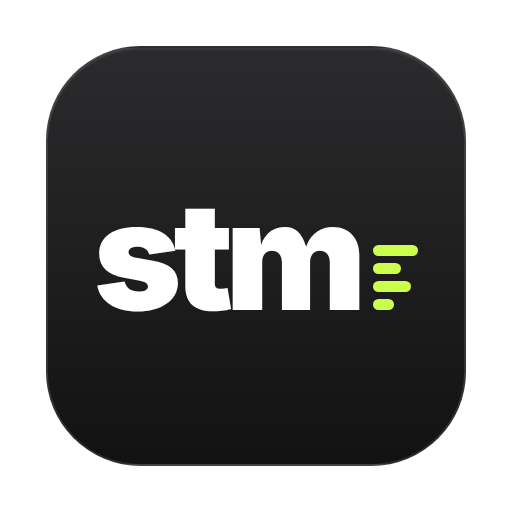
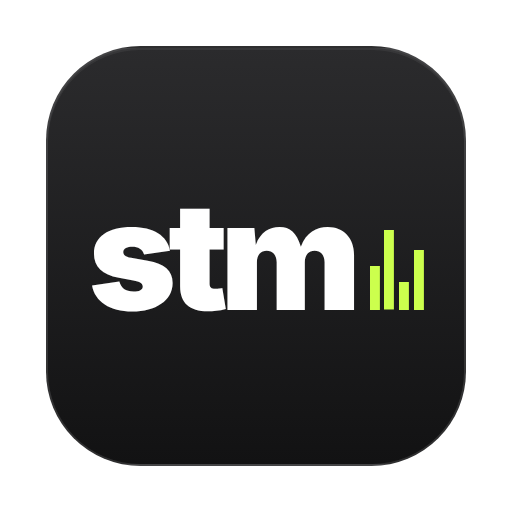
Stm site: match the app's mark (four level bars, bottom-aligned)
Claude-Session: https://claude.ai/code/session_0153qDJZLn1x3vLwES6bXL5A

diff --git a/apps/_shared/style.css b/apps/_shared/style.css
@@ -54,11 +54,12 @@ img { display: block; max-width: 100%; height: auto; }
 .wordmark svg { width: 0.36em; height: 0.56em; fill: var(--accent); flex: none; }
 /* Each app's glyph after its three letters, as in the PXL app tiles. */
 .wordmark .g { display: inline-block; flex: none; }
-/* Empty blocks, no flex: an inline-block with no text sits its bottom on the baseline. */
-.g-stems { width: 0.3em; height: 0.56em; padding-top: 0.125em; margin-left: 0.04em; box-sizing: border-box; }
-.g-stems b { display: block; height: 0.075em; margin-top: 0.045em; border-radius: 0.04em; background: var(--accent); }
-.g-stems b:first-child { margin-top: 0; }
-.g-stems b:nth-child(1) { width: 100%; } .g-stems b:nth-child(2) { width: 62%; } .g-stems b:nth-child(3) { width: 84%; } .g-stems b:nth-child(4) { width: 46%; }
+/* Stm: four level bars side by side, bottom-aligned, heights 55/100/35/75% of the x-height
+   (matches the app's .mark .bars). Drawn as backgrounds so the empty inline-block sits on the baseline. */
+.g-stems { width: 0.36em; height: 0.53em; margin-left: 0.05em; background-repeat: no-repeat;
+  background-image: linear-gradient(var(--accent), var(--accent)), linear-gradient(var(--accent), var(--accent)), linear-gradient(var(--accent), var(--accent)), linear-gradient(var(--accent), var(--accent));
+  background-size: 0.066em 55%, 0.066em 100%, 0.066em 35%, 0.066em 75%;
+  background-position: 0 100%, 33.3% 100%, 66.6% 100%, 100% 100%; }
 .g-cube { width: 0.22em; height: 0.22em; border-radius: 0.03em; background: linear-gradient(135deg, #ffb35c, var(--accent) 55%, #4dd8ff); }
 .g-hop { width: 0.4em; height: 0.56em; position: relative; }
 .g-hop::before { content: ""; position: absolute; left: 0; right: 0; top: 0.08em; height: 0.36em; border: 0.055em solid var(--accent); border-bottom: 0; border-radius: 0.4em 0.4em 0 0; border-style: dashed; opacity: .55; }

diff --git a/apps/hop/assets/style.css b/apps/hop/assets/style.css
@@ -54,11 +54,12 @@ img { display: block; max-width: 100%; height: auto; }
 .wordmark svg { width: 0.36em; height: 0.56em; fill: var(--accent); flex: none; }
 /* Each app's glyph after its three letters, as in the PXL app tiles. */
 .wordmark .g { display: inline-block; flex: none; }
-/* Empty blocks, no flex: an inline-block with no text sits its bottom on the baseline. */
-.g-stems { width: 0.3em; height: 0.56em; padding-top: 0.125em; margin-left: 0.04em; box-sizing: border-box; }
-.g-stems b { display: block; height: 0.075em; margin-top: 0.045em; border-radius: 0.04em; background: var(--accent); }
-.g-stems b:first-child { margin-top: 0; }
-.g-stems b:nth-child(1) { width: 100%; } .g-stems b:nth-child(2) { width: 62%; } .g-stems b:nth-child(3) { width: 84%; } .g-stems b:nth-child(4) { width: 46%; }
+/* Stm: four level bars side by side, bottom-aligned, heights 55/100/35/75% of the x-height
+   (matches the app's .mark .bars). Drawn as backgrounds so the empty inline-block sits on the baseline. */
+.g-stems { width: 0.36em; height: 0.53em; margin-left: 0.05em; background-repeat: no-repeat;
+  background-image: linear-gradient(var(--accent), var(--accent)), linear-gradient(var(--accent), var(--accent)), linear-gradient(var(--accent), var(--accent)), linear-gradient(var(--accent), var(--accent));
+  background-size: 0.066em 55%, 0.066em 100%, 0.066em 35%, 0.066em 75%;
+  background-position: 0 100%, 33.3% 100%, 66.6% 100%, 100% 100%; }
 .g-cube { width: 0.22em; height: 0.22em; border-radius: 0.03em; background: linear-gradient(135deg, #ffb35c, var(--accent) 55%, #4dd8ff); }
 .g-hop { width: 0.4em; height: 0.56em; position: relative; }
 .g-hop::before { content: ""; position: absolute; left: 0; right: 0; top: 0.08em; height: 0.36em; border: 0.055em solid var(--accent); border-bottom: 0; border-radius: 0.4em 0.4em 0 0; border-style: dashed; opacity: .55; }

diff --git a/apps/lut/assets/style.css b/apps/lut/assets/style.css
@@ -54,11 +54,12 @@ img { display: block; max-width: 100%; height: auto; }
 .wordmark svg { width: 0.36em; height: 0.56em; fill: var(--accent); flex: none; }
 /* Each app's glyph after its three letters, as in the PXL app tiles. */
 .wordmark .g { display: inline-block; flex: none; }
-/* Empty blocks, no flex: an inline-block with no text sits its bottom on the baseline. */
-.g-stems { width: 0.3em; height: 0.56em; padding-top: 0.125em; margin-left: 0.04em; box-sizing: border-box; }
-.g-stems b { display: block; height: 0.075em; margin-top: 0.045em; border-radius: 0.04em; background: var(--accent); }
-.g-stems b:first-child { margin-top: 0; }
-.g-stems b:nth-child(1) { width: 100%; } .g-stems b:nth-child(2) { width: 62%; } .g-stems b:nth-child(3) { width: 84%; } .g-stems b:nth-child(4) { width: 46%; }
+/* Stm: four level bars side by side, bottom-aligned, heights 55/100/35/75% of the x-height
+   (matches the app's .mark .bars). Drawn as backgrounds so the empty inline-block sits on the baseline. */
+.g-stems { width: 0.36em; height: 0.53em; margin-left: 0.05em; background-repeat: no-repeat;
+  background-image: linear-gradient(var(--accent), var(--accent)), linear-gradient(var(--accent), var(--accent)), linear-gradient(var(--accent), var(--accent)), linear-gradient(var(--accent), var(--accent));
+  background-size: 0.066em 55%, 0.066em 100%, 0.066em 35%, 0.066em 75%;
+  background-position: 0 100%, 33.3% 100%, 66.6% 100%, 100% 100%; }
 .g-cube { width: 0.22em; height: 0.22em; border-radius: 0.03em; background: linear-gradient(135deg, #ffb35c, var(--accent) 55%, #4dd8ff); }
 .g-hop { width: 0.4em; height: 0.56em; position: relative; }
 .g-hop::before { content: ""; position: absolute; left: 0; right: 0; top: 0.08em; height: 0.36em; border: 0.055em solid var(--accent); border-bottom: 0; border-radius: 0.4em 0.4em 0 0; border-style: dashed; opacity: .55; }

diff --git a/apps/stm/assets/style.css b/apps/stm/assets/style.css
@@ -54,11 +54,12 @@ img { display: block; max-width: 100%; height: auto; }
 .wordmark svg { width: 0.36em; height: 0.56em; fill: var(--accent); flex: none; }
 /* Each app's glyph after its three letters, as in the PXL app tiles. */
 .wordmark .g { display: inline-block; flex: none; }
-/* Empty blocks, no flex: an inline-block with no text sits its bottom on the baseline. */
-.g-stems { width: 0.3em; height: 0.56em; padding-top: 0.125em; margin-left: 0.04em; box-sizing: border-box; }
-.g-stems b { display: block; height: 0.075em; margin-top: 0.045em; border-radius: 0.04em; background: var(--accent); }
-.g-stems b:first-child { margin-top: 0; }
-.g-stems b:nth-child(1) { width: 100%; } .g-stems b:nth-child(2) { width: 62%; } .g-stems b:nth-child(3) { width: 84%; } .g-stems b:nth-child(4) { width: 46%; }
+/* Stm: four level bars side by side, bottom-aligned, heights 55/100/35/75% of the x-height
+   (matches the app's .mark .bars). Drawn as backgrounds so the empty inline-block sits on the baseline. */
+.g-stems { width: 0.36em; height: 0.53em; margin-left: 0.05em; background-repeat: no-repeat;
+  background-image: linear-gradient(var(--accent), var(--accent)), linear-gradient(var(--accent), var(--accent)), linear-gradient(var(--accent), var(--accent)), linear-gradient(var(--accent), var(--accent));
+  background-size: 0.066em 55%, 0.066em 100%, 0.066em 35%, 0.066em 75%;
+  background-position: 0 100%, 33.3% 100%, 66.6% 100%, 100% 100%; }
 .g-cube { width: 0.22em; height: 0.22em; border-radius: 0.03em; background: linear-gradient(135deg, #ffb35c, var(--accent) 55%, #4dd8ff); }
 .g-hop { width: 0.4em; height: 0.56em; position: relative; }
 .g-hop::before { content: ""; position: absolute; left: 0; right: 0; top: 0.08em; height: 0.36em; border: 0.055em solid var(--accent); border-bottom: 0; border-radius: 0.4em 0.4em 0 0; border-style: dashed; opacity: .55; }

diff --git a/apps/stm/index.html b/apps/stm/index.html
@@ -44,7 +44,7 @@
 
 <header class="nav" id="nav">
   <div class="wrap">
-    <a href="/" class="wordmark" aria-label="Stm home">stm<i class="g g-stems" aria-hidden="true"><b></b><b></b><b></b><b></b></i></a>
+    <a href="/" class="wordmark" aria-label="Stm home">stm<i class="g g-stems" aria-hidden="true"></i></a>
     <nav class="nav-links" aria-label="Sections">
       <a href="#features">Features</a>
       <a href="#how">How it works</a>
@@ -62,7 +62,7 @@
     <div class="wrap">
       <a class="pill" href="https://pxlvzn.in"><span class="dot"></span><b>New</b> in the PXL suite</a>
 
-      <div class="hero-mark wordmark" aria-hidden="true"><span class="ch">s</span><span class="ch">t</span><span class="ch">m</span><i class="g g-stems" aria-hidden="true"><b></b><b></b><b></b><b></b></i></div>
+      <div class="hero-mark wordmark" aria-hidden="true"><span class="ch">s</span><span class="ch">t</span><span class="ch">m</span><i class="g g-stems" aria-hidden="true"></i></div>
 
       <h1>Split any song into its stems.</h1>
       <p class="lede">Drop in a song and get vocals, drums, bass and everything else as separate files. Made for remixes, acapellas, karaoke and sampling, and it runs on your own computer, so nothing is uploaded and there are no per-song credits.</p>
@@ -192,7 +192,7 @@
 
 <footer>
   <div class="wrap">
-    <a href="/" class="wordmark" aria-label="Stm home">stm<i class="g g-stems" aria-hidden="true"><b></b><b></b><b></b><b></b></i></a>
+    <a href="/" class="wordmark" aria-label="Stm home">stm<i class="g g-stems" aria-hidden="true"></i></a>
     <nav aria-label="Footer">
       <a href="https://pxlvzn.in">PXL</a>
       <a href="https://github.com/YuvrajxGarg/stm">GitHub</a>

diff --git a/apps/stm/404.html b/apps/stm/404.html
@@ -14,7 +14,7 @@
 <body>
 <header class="nav scrolled">
   <div class="wrap">
-    <a href="/" class="wordmark" aria-label="Stm home">stm<i class="g g-stems" aria-hidden="true"><b></b><b></b><b></b><b></b></i></a>
+    <a href="/" class="wordmark" aria-label="Stm home">stm<i class="g g-stems" aria-hidden="true"></i></a>
     <div class="nav-right"><a class="btn btn-primary btn-sm" href="/#download">Download</a></div>
   </div>
 </header>

diff --git a/apps/build.py b/apps/build.py
@@ -21,7 +21,7 @@ SHARED = HERE / "_shared"
 ASSET_VERSION = "1"  # bump to make browsers refetch style.css and main.js
 
 GLYPHS = {
-    "stems": '<i class="g g-stems" aria-hidden="true"><b></b><b></b><b></b><b></b></i>',
+    "stems": '<i class="g g-stems" aria-hidden="true"></i>',
     "cube": '<i class="g g-cube" aria-hidden="true"></i>',
     "hop": '<i class="g g-hop" aria-hidden="true"></i>',
 }
